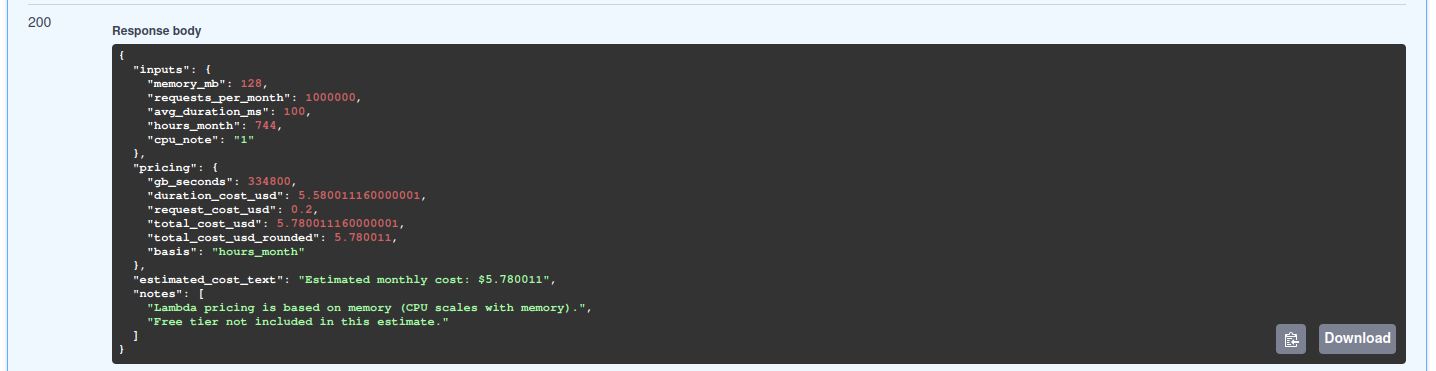
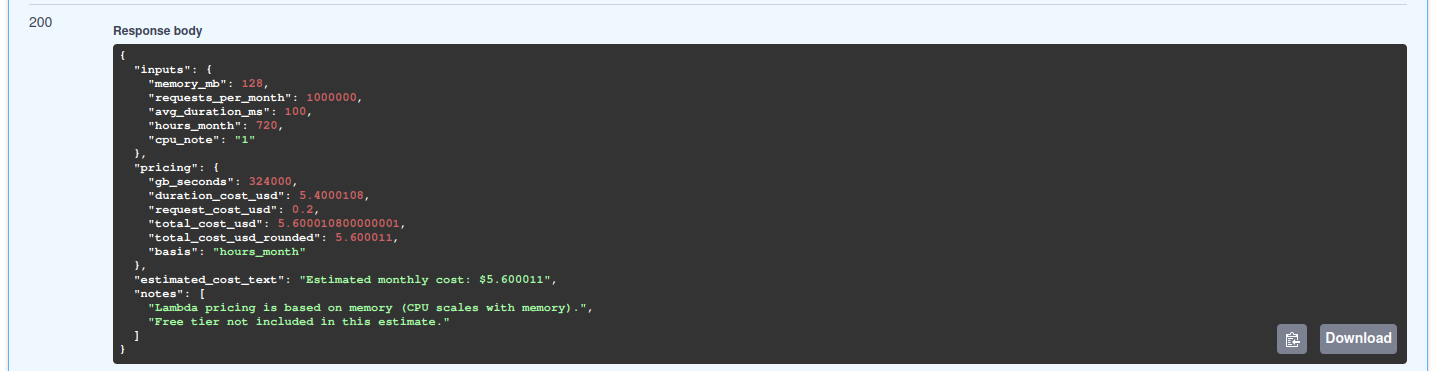
assets and cost

diff --git a/lambda-function/src/app/main.py b/lambda-function/src/app/main.py
@@ -18,8 +18,8 @@ def estimate_cost(
     memory_mb: int = Query(128, ge=128, le=10240),
     requests_per_month: int = Query(1000000, ge=0),
     avg_duration_ms: float = Query(100.0, ge=0.0),
-    hours_month: float | None = Query(None, ge=0.0),
-    cpu_note: str | None = Query(None),
+    hours_month: float  = Query(720, ge=0.0),
+    cpu_note: str  = Query(1),
 ):
     """
     Estimate Lambda cost based on memory + duration or total hours.

diff --git a/lambda-function/README.md b/lambda-function/README.md
@@ -108,31 +108,12 @@ After `apply`, Terraform outputs the API URL:
 ```
 api_url = https://xxxxxx.execute-api.us-east-1.amazonaws.com
 ```
-Open it in your browser or curl it.
+Open it in your browser.
 
 ### Step 6: Cost calculator endpoint (Python)
 The Lambda API exposes a simple cost estimator at the `/cost` endpoint.
 
 Example with defaults:
-```bash
-curl "https://xxxxxx.execute-api.us-east-1.amazonaws.com/cost"
-```
-
-Example with custom values:
-```bash
-curl "https://xxxxxx.execute-api.us-east-1.amazonaws.com/cost?memory_mb=512&requests_per_month=2000000&avg_duration_ms=120"
-```
-
-You can also estimate using `hours_month` instead of request duration:
-```bash
-curl "https://xxxxxx.execute-api.us-east-1.amazonaws.com/cost?memory_mb=1024&hours_month=20"
-```
-
-Query parameters:
-- `memory_mb` (default 128)
-- `requests_per_month` (default 1000000)
-- `avg_duration_ms` (default 100)
-- `hours_month` (optional, overrides avg duration math)
 
 ---
 
